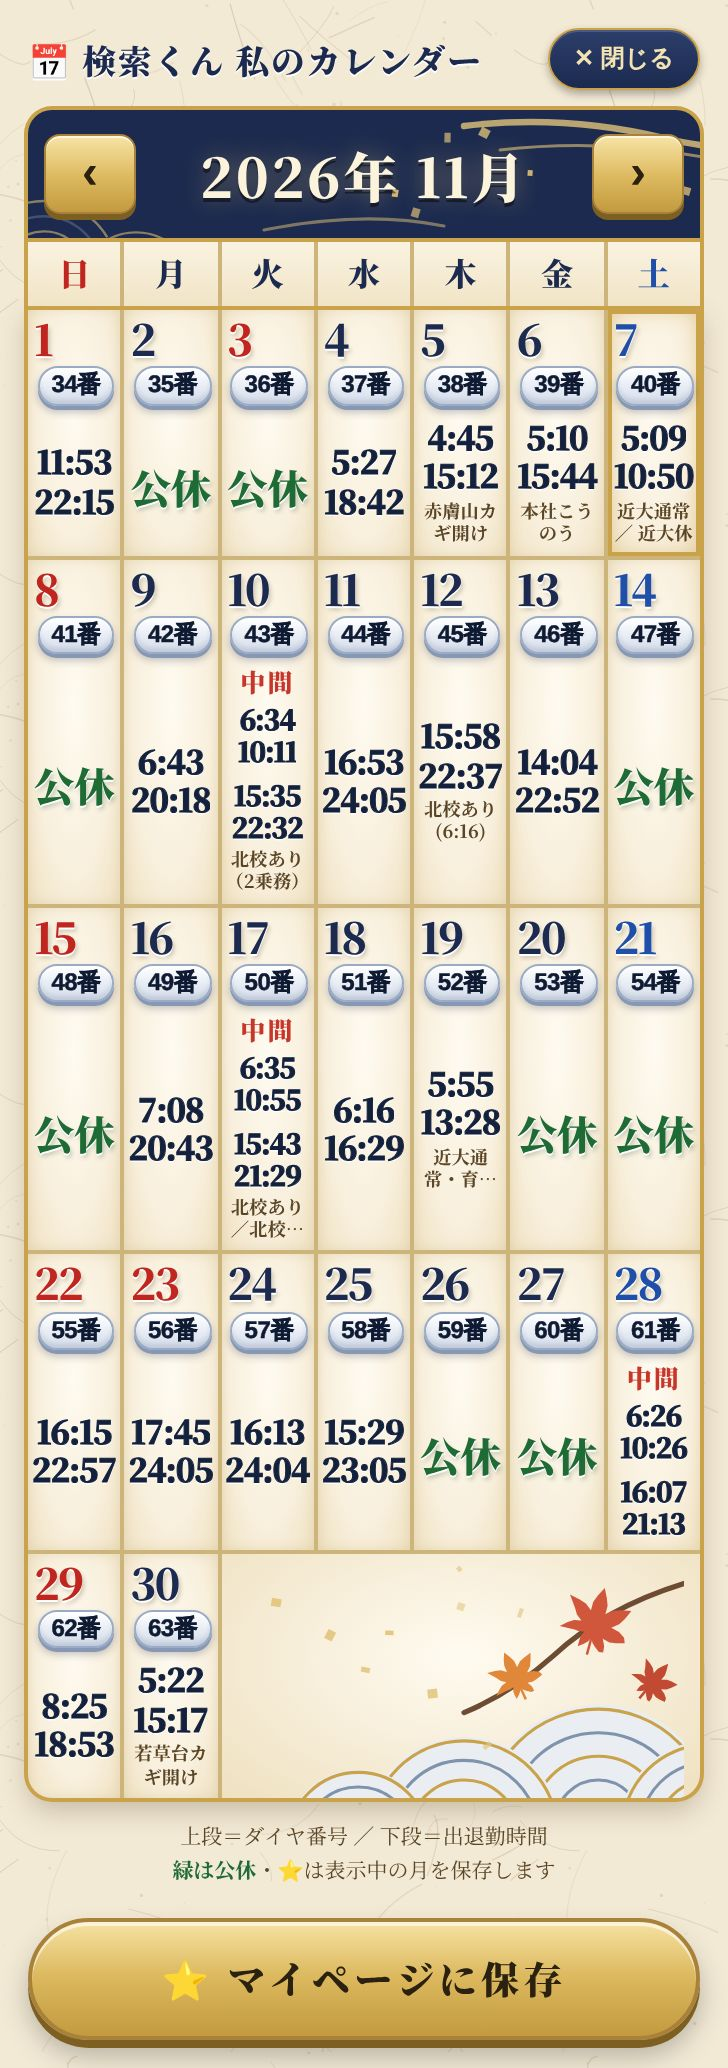
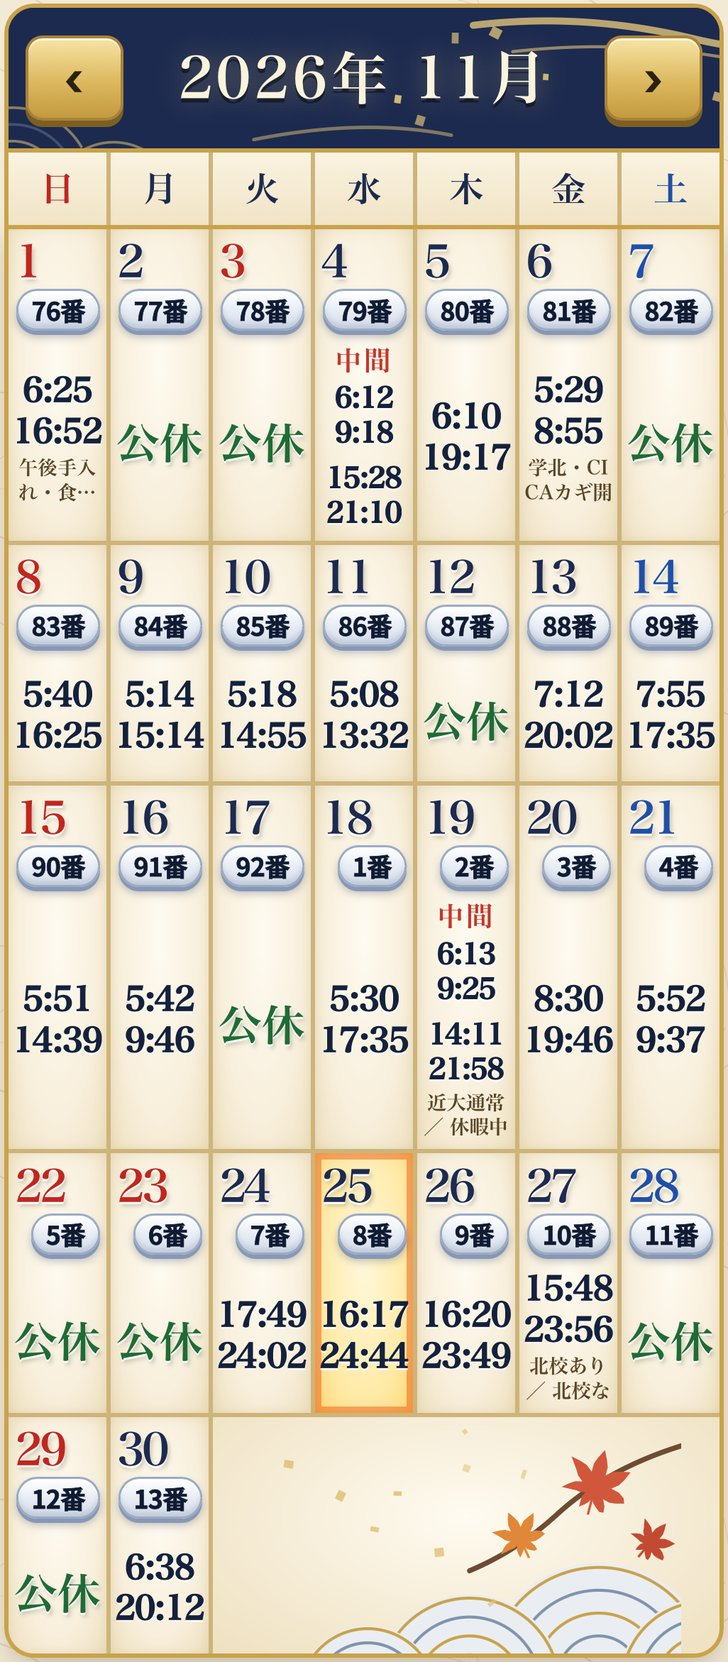
v4.53 番号の案内をダイヤごとに・更新履歴にもっと見る・使い方にリスト (by AIタケタニ)
Claude-Session: https://claude.ai/code/session_01Wen9Csnx2Q6VS8xZXjgHim

diff --git a/master/master.html b/master/master.html
@@ -766,6 +766,11 @@ body.light .dial-nav-btn, body.light .dial-row-nav, .rcd-dial .dial-nav-btn {
 .other-app .go { margin-left: auto; font-size: calc(18px * var(--fs, 1)); color: #3ec6ff; }
 .log-item { margin-bottom: 12px; padding-bottom: 12px; border-bottom: 1px dashed var(--border); }
 .log-item:last-child { border-bottom: none; }
+/* 更新履歴は新しい10件だけ出し、残りは「もっと見る」で開く（2026-11-25） */
+.log-item.log-hide { display: none; }
+.log-more { display: block; width: 100%; margin: 4px 0 8px; padding: 12px; border-radius: 10px;
+  border: 1px solid var(--border); background: transparent; color: var(--cyan);
+  font-size: calc(13px * var(--fs, 1)); font-weight: 800; font-family: inherit; cursor: pointer; }
 .log-date { font-size: calc(11px * var(--fs, 1)); color: var(--cyan); font-weight: 800; margin-bottom: 3px; }
 .log-body { font-size: calc(12px * var(--fs, 1)); color: var(--text); line-height: 1.7; }
 .log-body .tag {
@@ -2220,7 +2225,7 @@ try{ if(localStorage.getItem('{{ID}}-theme')==='light') document.body.classList.
          ナビのデータがあるときだけ出し、そのときは「番ダイヤ」を「番」にする（navRefreshBtn） -->
     <button class="dial-row-nav" id="navBtnInline" style="display:none;" onclick="openNav()">ダイヤ内容</button>
   </div>
-  <div class="today-preview empty" id="todayPreviewBox">↑ 1〜92の番号を入力してください</div>
+  <div class="today-preview empty" id="todayPreviewBox">↑ 1〜{{MAX}}の番号を入力してください</div>
   <div class="today-countdown" id="todayCountdown" style="display:none;"></div>
   <!-- 下にあった大きな「🧭 今日のナビ（ダイヤ内容）」ボタンは、番号の横の「ダイヤ内容」と重なるので外した
        （2026-11-07 乗務員さんより）。navRefreshBtn は navBtn が無くても動く -->
@@ -2550,6 +2555,8 @@ try{ if(localStorage.getItem('{{ID}}-theme')==='light') document.body.classList.
         <p>クイック検索の「カレンダー」を押すと、<b>1ヶ月分が一目で分かります</b>。上の段がダイヤ番号、下の段が出退勤の時間です。マスをタップすると大きく表示され、中間ダイヤの詳しい時間も読めます。土曜は青、日曜・祝日は赤、公休は緑で、見出しの飾りは季節で変わります。</p>
         <div class="guide-note"><b>‹ › で何ヶ月でも前後に動かせます。</b>月の表示を押すと今月に戻ります。<span class="only-single"><b>過去の日をタップすれば、付け忘れた時間外もその場で足せます。</b></span></div>
         <img src="images/guide-rescal.jpg" alt="私のカレンダー" onerror="this.style.display='none'">
+        <div class="guide-note">上の<b>「📋 リスト」</b>に切り替えると、<b>1日ずつ「🚌 76番 06:25〜16:52」のように並びます</b>。本社こうのう・カギ開けなどの備考も出ます。アプリを開き直すと月カレンダーに戻ります。</div>
+        <img src="images/guide-reslist.jpg" alt="私のカレンダーのリスト" onerror="this.style.display='none'">
         <div class="guide-note only-single">
           <b>「⭐ マイページに保存」</b>で<b>いま表示している月</b>を保存でき、あとで<b>「📝 マイページ」→「保存したカレンダー」</b>からいつでも開けます（「2026年11月」のように月の名前で並びます）。<br>
           保存したカレンダーの<b>「📅 カレンダーアプリに一括保存」</b>を押すと、勤務を<b>スマホのカレンダーにまとめて登録</b>できます（出勤1時間前のお知らせ付き。公休の日も番号入りで入ります）。<br>
@@ -2844,6 +2851,8 @@ function applyDiaData(d){
   // 改正日。これより前は今のデータで計算しても実際と違うので、ふりかえりで出さない
   REVISION_ISO = (d.meta && d.meta.revision) ? String(d.meta.revision) : '';
   if(d.meta && d.meta.cycle) CUR_MAX = d.meta.cycle;   // 番号の上限も合わせる
+  // 入力欄の上限も合わせる（改正で数が変わったとき、▲▼で行き過ぎたり届かなかったりしないように）
+  try{ const _inp=document.getElementById('todayInput'); if(_inp) _inp.max=CUR_MAX; }catch(e){}
   // 画面の表示は、値をすべて入れ終わってから更新する
   try{ renderHeadRev(d); }catch(e){}
   try{ renderDiaInfo(); }catch(e){}
@@ -3337,7 +3346,7 @@ function _updateTodayPreview(){
   const box=document.getElementById('todayPreviewBox');
   if(!v||v<1||v>CUR_MAX){
     box.classList.add('empty'); // ヒント文章の間は枠を消す
-    box.innerHTML='↑ 1〜92の番号を入力してください';
+    box.innerHTML='↑ 1〜'+CUR_MAX+'の番号を入力してください';   // 92 と決め打ちしていたのを、そのダイヤの数に（2026-11-25）
     return;
   }
   box.classList.remove('empty'); // 実際のシフト内容を表示する時は枠を戻す
@@ -10436,6 +10445,21 @@ function loadChangeLog(){
     return r.text();
   }).then(function(html){
     box.innerHTML=html;
+    /* 新しい10件だけ出して、残りは「もっと見る」を押した時に出す。
+       押して開いたものは、アプリを開き直すとまた10件に戻る（何も覚えない） */
+    const SHOW=10;
+    const items=box.querySelectorAll('.log-item');
+    if(items.length>SHOW){
+      for(let i=SHOW;i<items.length;i++) items[i].classList.add('log-hide');
+      const more=document.createElement('button');
+      more.className='log-more';
+      more.textContent='▼ もっと見る（あと'+(items.length-SHOW)+'件）';
+      more.onclick=function(){
+        box.querySelectorAll('.log-item.log-hide').forEach(function(el){ el.classList.remove('log-hide'); });
+        more.remove();
+      };
+      items[SHOW-1].parentNode.insertBefore(more, items[SHOW-1].nextSibling);   // 古いiPhoneでも動く書き方
+    }
   }).catch(function(){
     box.innerHTML='<div class="log-loading">更新履歴はまだありません。</div>';
   });

diff --git a/sw.js b/sw.js
@@ -10,7 +10,7 @@
 
 // キャッシュ名にバージョンを入れておき、更新のたびにこの値を変えることで
 // 新しいService Workerが「更新あり」と判定されるようにする
-const CACHE_VERSION = 'a-shukkin-v332';
+const CACHE_VERSION = 'a-shukkin-v333';
 const CACHE_FILES = [
     './',
     './index.html',

diff --git a/master/HANDOVER.md b/master/HANDOVER.md
@@ -1304,3 +1304,11 @@ apps.json の NEXT_REV / NEXT_JSON
 - `XT_PAUSED=true` の間は、トップ一番下の3行を5回タップしても出ない（`xtSecretTap` ですぐ戻る）。
 - 助役さんのリンク（XT_VIEW）を開く画面はそのまま。
 - また出す時は、乗務員さん向け・助役さん向けの注意の文言を入れてから `XT_PAUSED=false` にして、普通に出す＋更新履歴に載せる。
+
+## v4.53（2026-11-25）上司に見せる前の見直し
+- 「↑ 1〜92の番号を入力してください」が全ダイヤで92だったのを `CUR_MAX` に（初めの表示は `{{MAX}}`）。
+- apps.json の MAX を10/1改正後に合わせた（C 8→4、B 27→31）。`applyDiaData` で入力欄の max も `CUR_MAX` に合わせる。
+- 更新履歴は新しい10件だけ出し、「▼ もっと見る（あと◯件）」で残りを出す（`loadChangeLog`）。何も覚えないので、開き直すと10件に戻る。
+- 使い方「カレンダーで見る」にリストの説明と写真 `images/guide-reslist.jpg` を足した（学園前Aだけ写真あり。他は onerror で隠れる）。guide-rescal.jpg も学園前Aだけ撮り直し（乗務員さんの実機。上の時刻などは切って枠の中だけ）。
+- 残り：文字130%でタイトル「くん」が切れる／スペシャル検索くんの入力欄の薄い「1〜92」が「1〜9」に見える（どちらも見た目なのでサンプルから）。
+- スペシャル検索くんで C・予備だけ無音：ダイヤのボタンを押した時、そのダイヤで前に入れた番号があれば番号が入って音と花火が出る。無ければ何も出ない。番号を入れれば鳴る（試験では全ダイヤ鳴った）。
